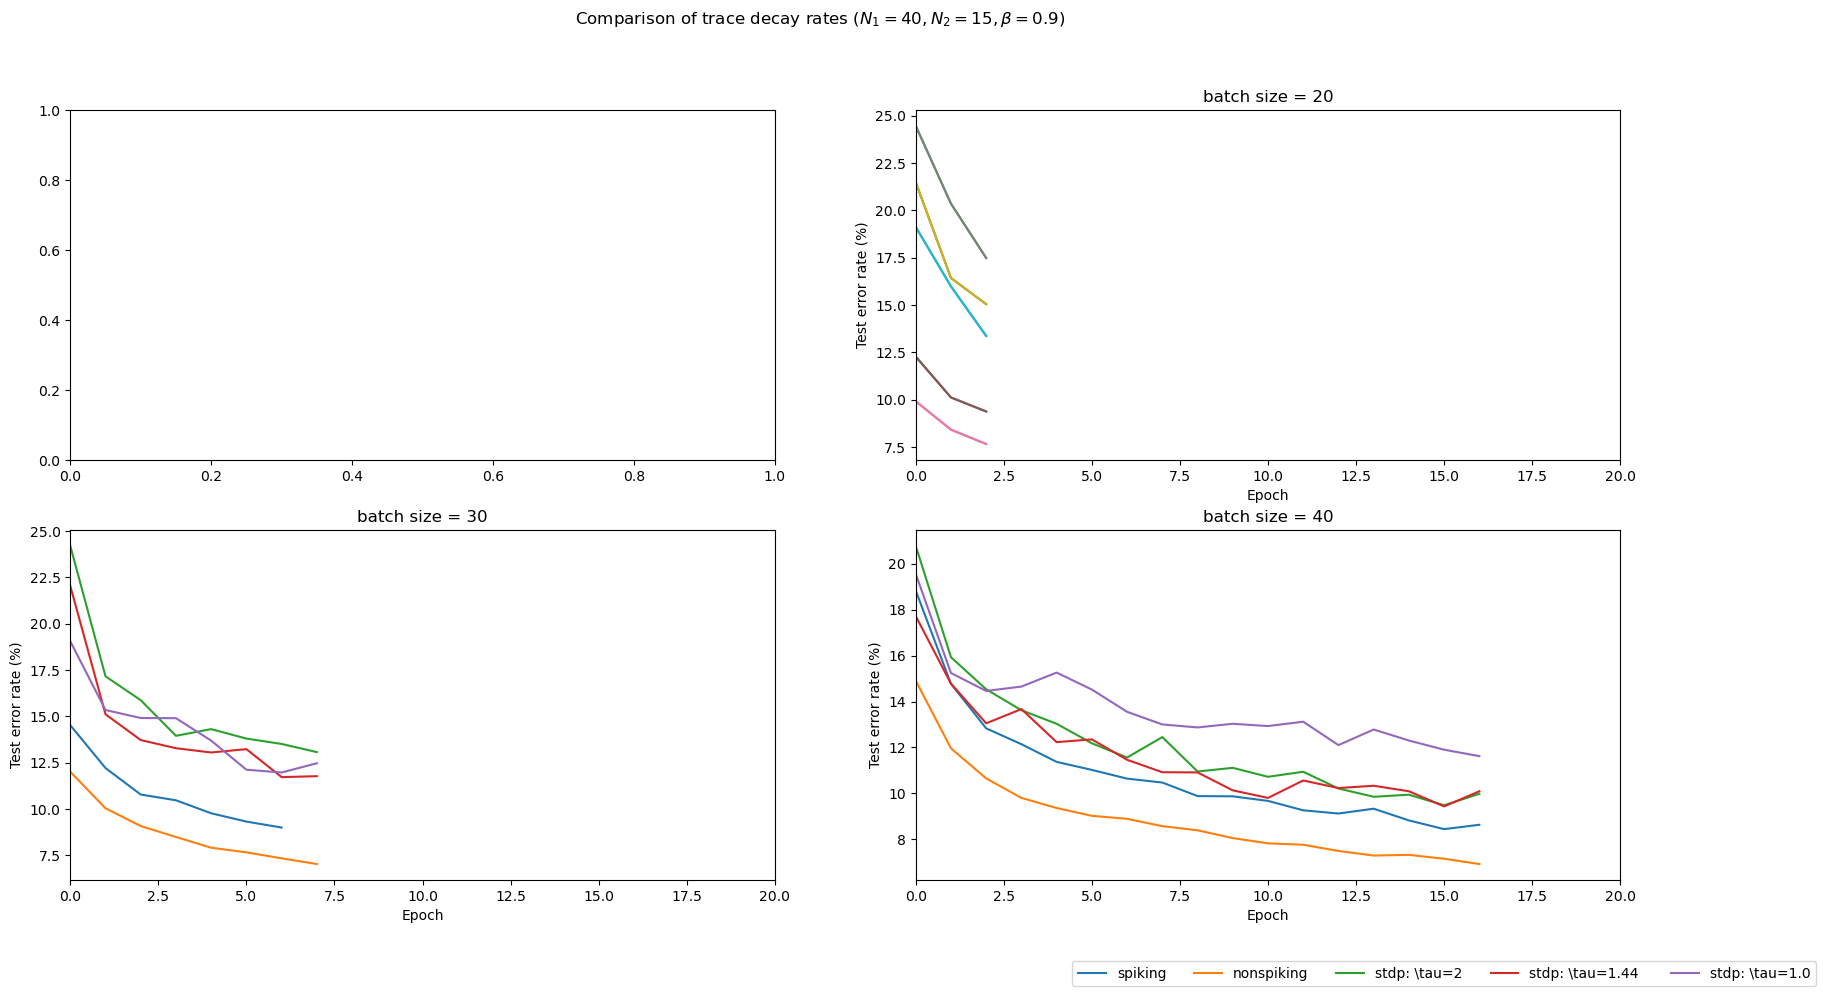
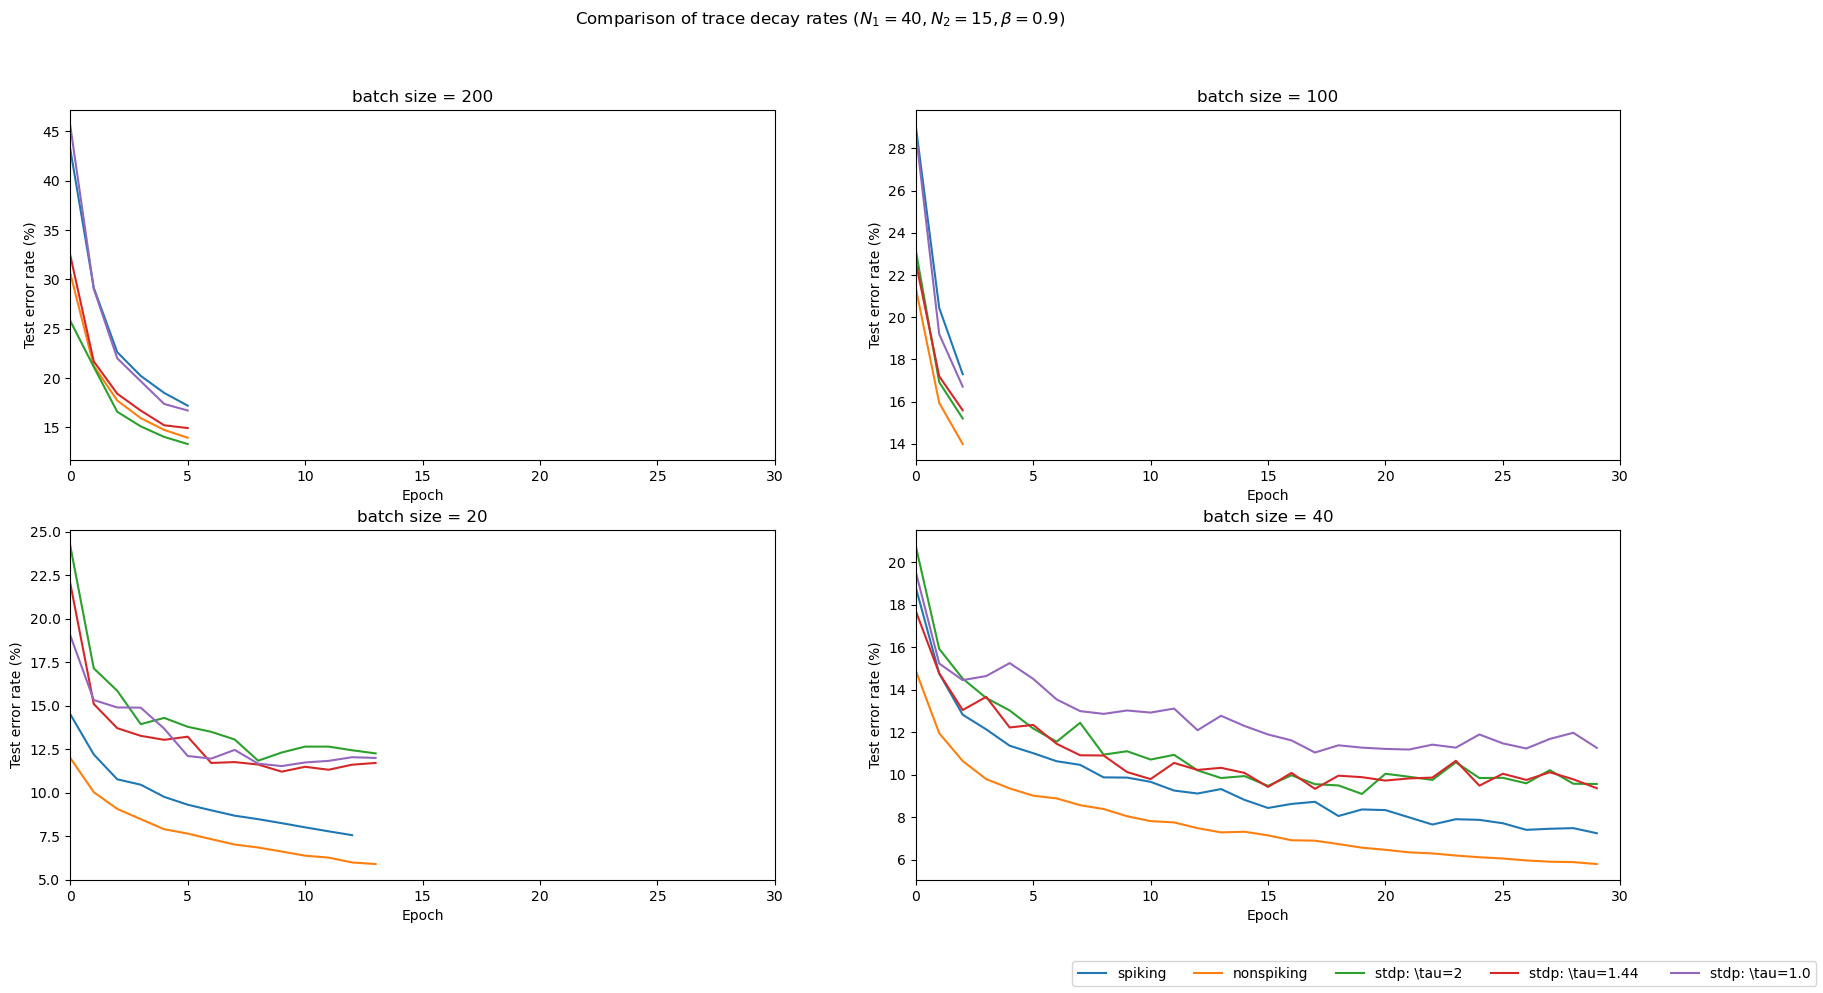
wip

diff --git a/graphUtil.py b/graphUtil.py
@@ -139,8 +139,8 @@ fig.savefig('cepalt_error.png')#,bbox_inches="tight")
 
 fig, ax = plt.subplots(2,2,figsize=(20,10))
 labels=['spiking','nonspiking',r'stdp: \tau=2',r'stdp: \tau=1.44 ',r'stdp: \tau=1.0']
-batch_size=[10,20,30,40]
-for i in [1,1,2,3]:
+batch_size=[200,100,20,40]
+for i in [0,1,2,3]:
     spiking_dir = 'skewsym_spiking_'+str(i)
     nonspiking_dir = 'skewsym_nonspiking_'+str(i)
     stdp_slow_dir = 'stdp_slow_'+str(i)
@@ -158,7 +158,7 @@ for i in [1,1,2,3]:
     ax[i//2,i%2].plot(stdp_fast_test_error)
     ax[i//2,i%2].set_xlabel('Epoch')
     ax[i//2,i%2].set_ylabel('Test error rate (%)')
-    ax[i//2,i%2].set_xlim([0,20])
+    ax[i//2,i%2].set_xlim([0,30])
     ax[i//2,i%2].set_title('batch size = '+str(batch_size[i]))
 fig.suptitle(r"Comparison of trace decay rates ($N_1=40,N_2=15,\beta=0.9$)")
 fig.legend(labels, loc='lower right', ncol=len(labels), bbox_transform=fig.transFigure)

diff --git a/netFunctions.py b/netFunctions.py
@@ -118,6 +118,7 @@ def train(net, train_loader, epoch, learning_rule):
                     fig, ax = plt.subplots()
                     ax.plot(np.arange(net.T),deltas)
                     fig.savefig(net.directory+'/deltas_'+str(batch_idx)+'.png')
+                    plt.close()
                 ###########################
 
                 if not net.cep:

diff --git a/main.py b/main.py
@@ -206,7 +206,7 @@ parser.add_argument(
 parser.add_argument(
     '--step',
     type=float,
-    default=1.0,
+    default=None,#1.0
     help='time step size')
 parser.add_argument(
     '--tau-dynamic',
